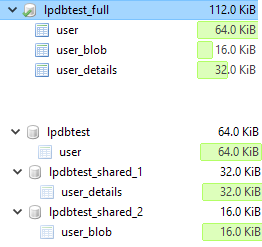
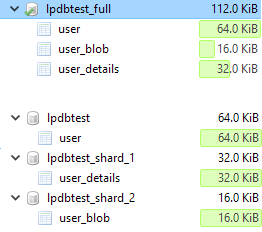
typo

Changed region(s): [[0.0, 0.0, 1.0, 0.3621], [0.0305, 0.4828, 0.5496, 0.9957], [0.7634, 0.4828, 1.0, 0.9957]]

diff --git a/config/db_components.php b/config/db_components.php
@@ -3,8 +3,8 @@
 class DbComponents
 {
     const MainDb = 'db';
-    const SharedDb1 = 'lpdbtest_shared_1';
-    const SharedDb2 = 'lpdbtest_shared_2';
+    const ShardDb1 = 'lpdbtest_shard_1';
+    const ShardDb2 = 'lpdbtest_shard_2';
 
-    static $componentIds = array(self:: MainDb, self::SharedDb1, self::SharedDb2);
+    static $componentIds = array(self:: MainDb, self::ShardDb1, self::ShardDb2);
 }

diff --git a/models/UserDetails.php b/models/UserDetails.php
@@ -4,7 +4,7 @@ Yii::import('application.models._base.BaseUserDetails');
 
 class UserDetails extends BaseUserDetails
 {
-	protected $dbComponentId = DbComponents::SharedDb1;
+	protected $dbComponentId = DbComponents::ShardDb1;
 
 	public static function model($className=__CLASS__) {
 		return parent::model($className);

diff --git a/models/UserBlob.php b/models/UserBlob.php
@@ -4,7 +4,7 @@ Yii::import('application.models._base.BaseUserBlob');
 
 class UserBlob extends BaseUserBlob
 {
-	protected $dbComponentId = DbComponents::SharedDb2;
+	protected $dbComponentId = DbComponents::ShardDb2;
 
 	public static function model($className=__CLASS__) {
 		return parent::model($className);

diff --git a/models/_base/BaseUserDetails.php b/models/_base/BaseUserDetails.php
@@ -14,7 +14,7 @@
  * @property string $description
  *
  */
-abstract class BaseUserDetails extends SharedActiveRecord {
+abstract class BaseUserDetails extends ShardActiveRecord {
 
 	public static function model($className=__CLASS__) {
 		return parent::model($className);

diff --git a/models/_base/BaseUserBlob.php b/models/_base/BaseUserBlob.php
@@ -14,7 +14,7 @@
  * @property string $blob_b64
  *
  */
-abstract class BaseUserBlob extends SharedActiveRecord {
+abstract class BaseUserBlob extends ShardActiveRecord {
 
 	public static function model($className=__CLASS__) {
 		return parent::model($className);

diff --git a/models/_base/BaseUser.php b/models/_base/BaseUser.php
@@ -20,7 +20,7 @@
  * @property string $update_time
  *
  */
-abstract class BaseUser extends SharedActiveRecord {
+abstract class BaseUser extends ShardActiveRecord {
 
 	public static function model($className=__CLASS__) {
 		return parent::model($className);

diff --git a/components/ShardActiveRecord.php b/components/ShardActiveRecord.php
@@ -1,6 +1,6 @@
 <?php
 
-class SharedActiveRecord extends GxActiveRecord
+class ShardActiveRecord extends GxActiveRecord
 {
     protected $dbComponentId = null;
 

diff --git a/README.md b/README.md
@@ -24,10 +24,10 @@ All db instance ids (not database names) used throughout the application:
 class DbComponents
 {
     const MainDb = 'db';
-    const SharedDb1 = 'lpdbtest_shared_1';
-    const SharedDb2 = 'lpdbtest_shared_2';
+    const ShardDb1 = 'lpdbtest_shard_1';
+    const ShardDb2 = 'lpdbtest_shard_2';
     
-    static $componentIds = array(self:: MainDb, self::SharedDb1, self::SharedDb2);
+    static $componentIds = array(self:: MainDb, self::ShardDb1, self::ShardDb2);
 }
 ```
 
@@ -47,9 +47,9 @@ Configure them in the static <code>custom.php</code>:
             'enableProfiling' => true,
             'enableParamLogging' => true,
         ),
-        DbComponents::SharedDb1 => array(
+        DbComponents::ShardDb1 => array(
             'class' => 'CDbConnection',
-            'connectionString' => 'mysql:host=localhost;dbname=lpdbtest_shared_1',
+            'connectionString' => 'mysql:host=localhost;dbname=lpdbtest_shard_1',
             'emulatePrepare' => true,
             'username' => 'root',
             'password' => '',
@@ -57,9 +57,9 @@ Configure them in the static <code>custom.php</code>:
             'enableProfiling' => true,
             'enableParamLogging' => true,
         ),
-        DbComponents::SharedDb2 => array(
+        DbComponents::ShardDb2 => array(
             'class' => 'CDbConnection',
-            'connectionString' => 'mysql:host=localhost;dbname=lpdbtest_shared_2',
+            'connectionString' => 'mysql:host=localhost;dbname=lpdbtest_shard_2',
             'emulatePrepare' => true,
             'username' => 'root',
             'password' => '',
@@ -89,7 +89,7 @@ You might have only 1 db (no sharding):
 
 ### DbManager
 
-Returns the requested db connection if it's available or the main db connection otherwise. If you haven't specified the shared db-s in the <code>custom.php</code> then it won't find them so you get the main db connection where you keep all your data in this case.
+Returns the requested db connection if it's available or the main db connection otherwise. If you haven't specified the shard db-s in the <code>custom.php</code> then it won't find them so you get the main db connection where you keep all your data in this case.
 
 ```php
 class DbManager
@@ -118,12 +118,12 @@ class DbManager
 }
 ```
 
-### SharedActiveRecord
+### ShardActiveRecord
 
 Lets you change the db under an AR Model
 
 ```php
-class SharedActiveRecord extends GxActiveRecord
+class ShardActiveRecord extends GxActiveRecord
 {
     protected $dbComponentId = null;
 
@@ -138,23 +138,23 @@ class SharedActiveRecord extends GxActiveRecord
 }
 ```
 
-e.g. the UserDetails model's db should be on the SharedDb1 (lpdbtest_shared_1) shard:
+e.g. the UserDetails model's db should be on the ShardDb1 (lpdbtest_shard_1) shard:
 
 ```php
-abstract class BaseUserDetails extends SharedActiveRecord { /* ... */ }
+abstract class BaseUserDetails extends ShardActiveRecord { /* ... */ }
 ```
 
 ```php
 class UserDetails extends BaseUserDetails
 {
-	protected $dbComponentId = DbComponents::SharedDb1;
+	protected $dbComponentId = DbComponents::ShardDb1;
   // ...
 }
 ```
 
 ### Usage
 
-There are certain functionalities in the application when you want to reach data that is possibly located in a shared database (e.g. getting user data with blobs - *for the sake of simplicity they are base64 encoded strings*)
+There are certain functionalities in the application when you want to reach data that is possibly located in a shard database (e.g. getting user data with blobs - *for the sake of simplicity they are base64 encoded strings*)
 
 **User::toDto()**
 
@@ -215,7 +215,7 @@ Using the <code>DbManager</code> you can even get information from a certain sha
 
 ```php
         /** @var CDbConnection $db */
-        $db = DbManager::getDb(DbComponents::SharedDb2);
+        $db = DbManager::getDb(DbComponents::ShardDb2);
         /** @var CDbCommand $cmd */
         $cmd = $db->createCommand("SELECT COUNT(id) FROM user_blob WHERE user_id = :user_id");
 
